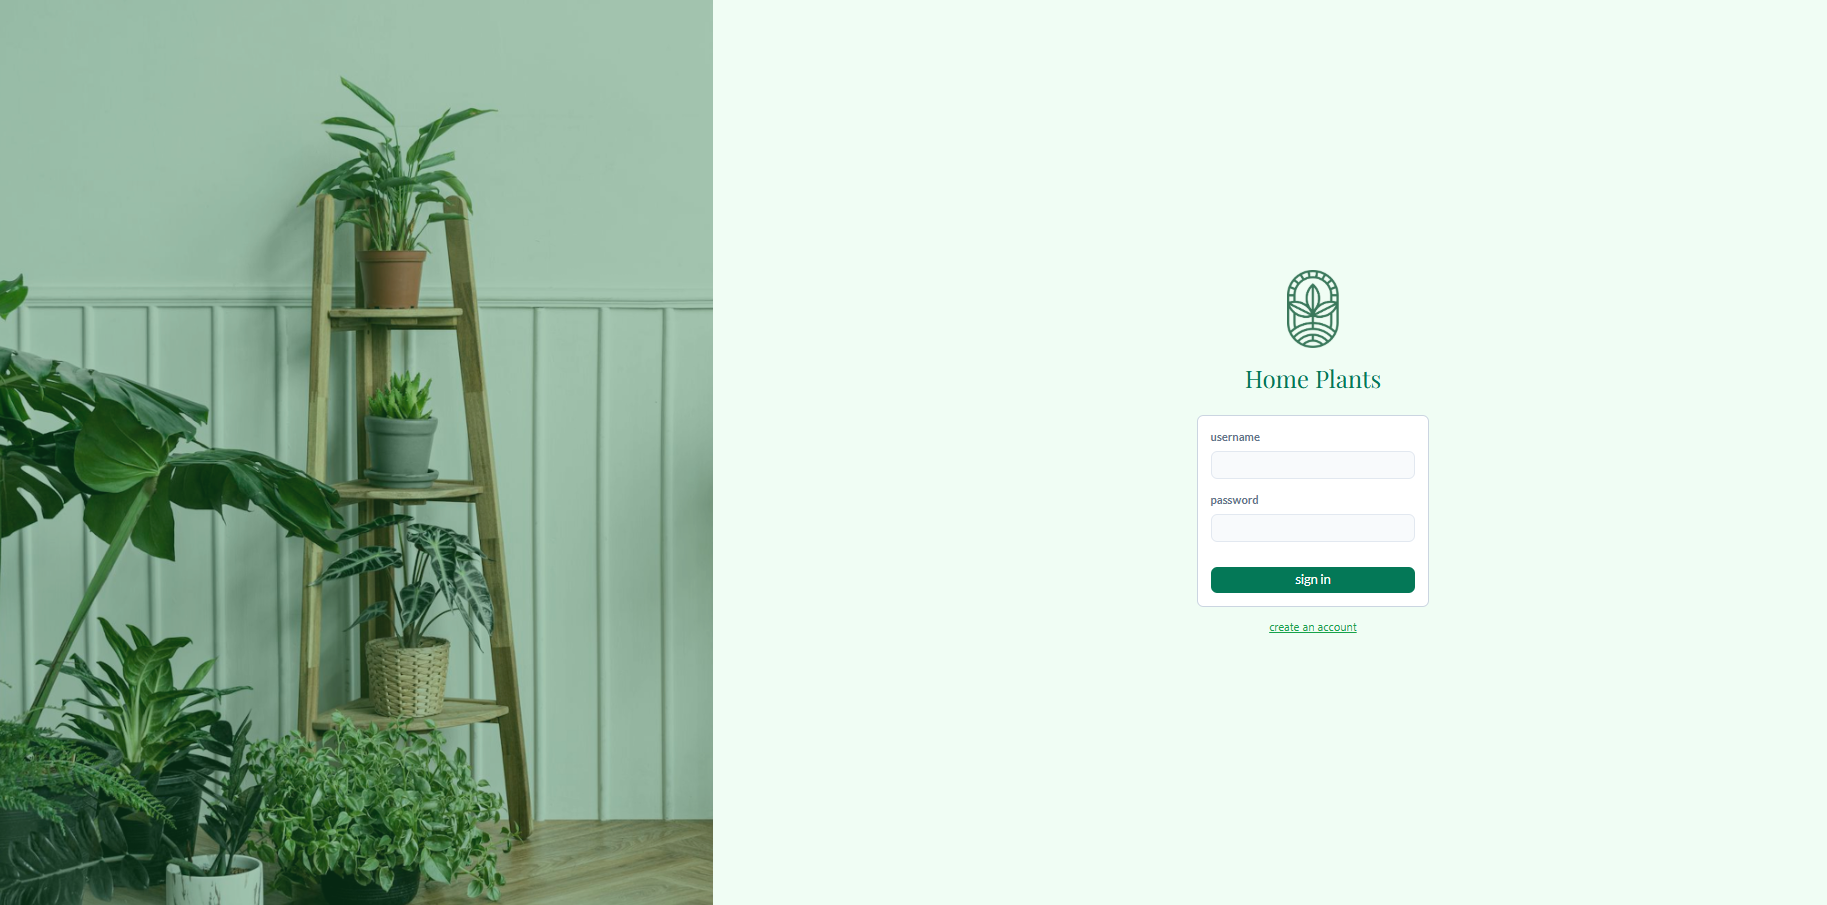
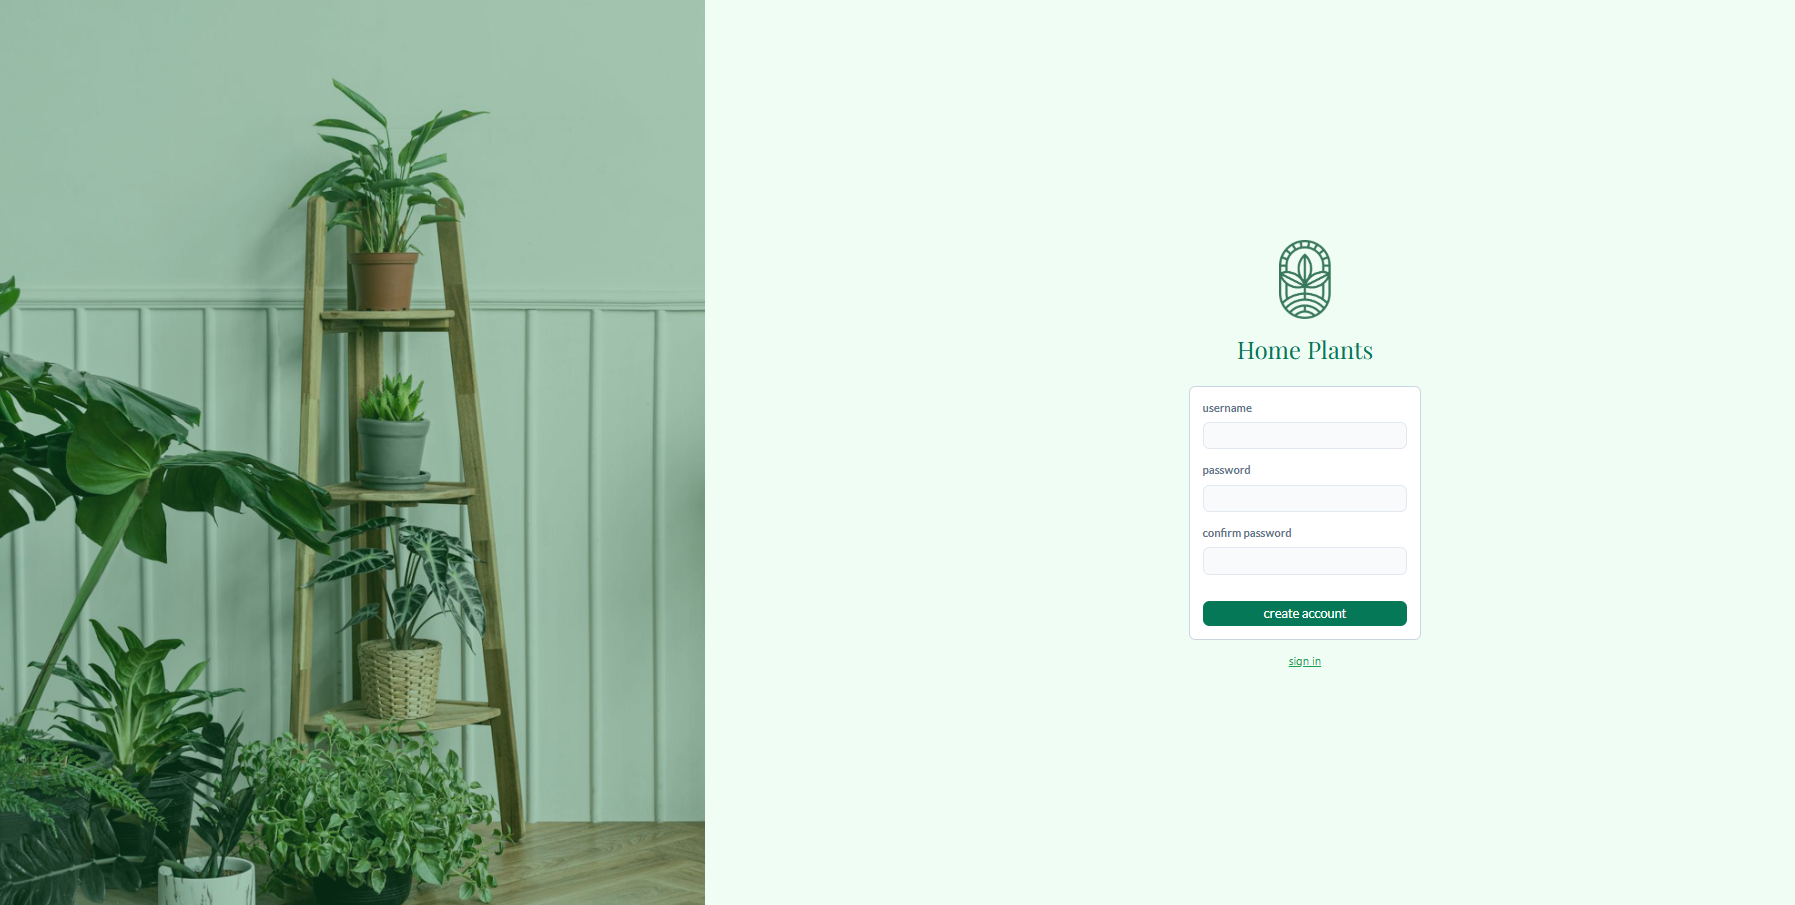
fix README

diff --git a/README.md b/README.md
@@ -4,6 +4,10 @@ A modern plant e-commerce application built with React and Tailwind CSS that all
 
 The application provides a smooth and interactive shopping experience with responsive design, animations, user authentication, and dynamic cart functionality.
 
+### Create account
+
+![Plant List](./public/signup.png)
+
 ### Plant List
 
 ![Plant List](./public/plant_list.png)
